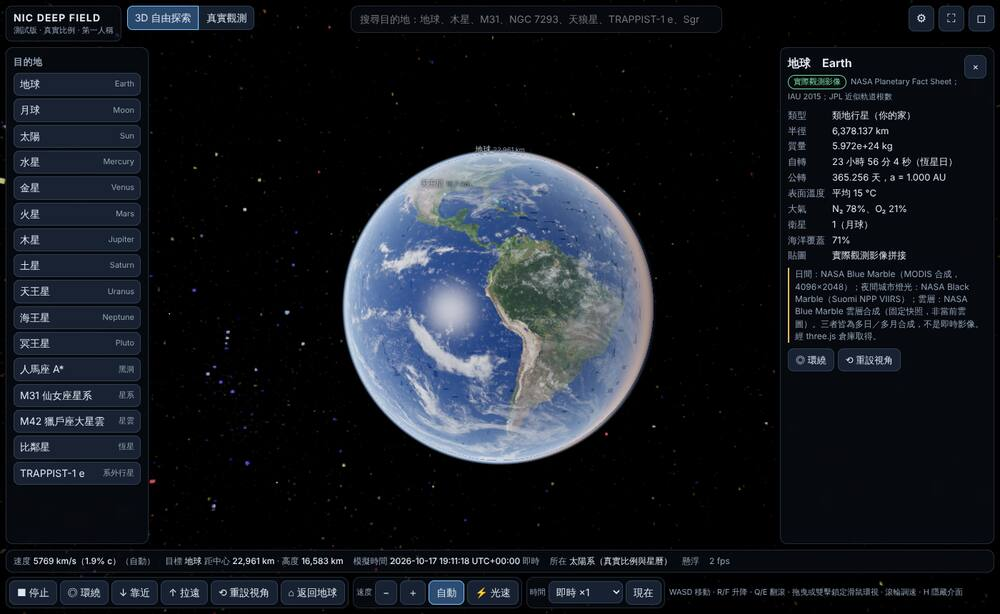
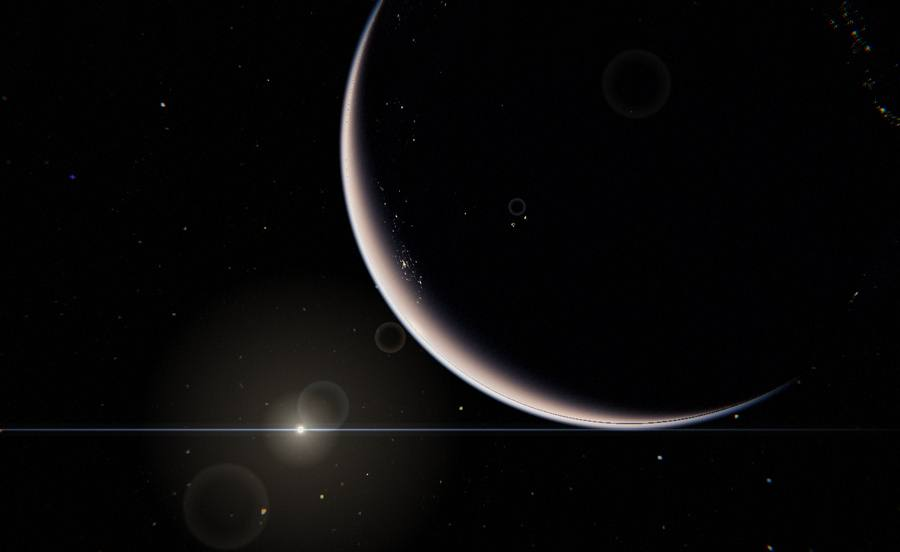
部署 ARC：同步程式碼（修正對數深度片段編譯錯誤、GPU 診斷模式；私有 main 7e3d682）

diff --git a/js/diag.js b/js/diag.js
@@ -1,0 +1,77 @@
+// GPU 診斷模式（網址加 ?diag=1 啟用）：顯示 GPU／WebGL 能力、即時效能、shader 錯誤，並提供逐項關閉視覺效果的開關，
+// 用來在真機（iPhone／Android）上隔離破圖成因。純工程工具，不改變任何天文資料或標示。
+// 其他網址參數：?quality=low|medium|high（覆蓋畫質）、?nolog=1（關閉對數深度緩衝，需重新載入）
+const $ = (id) => document.getElementById(id);
+
+export function initDiag(engine, controls, { quality } = {}) {
+  const gl = engine.renderer.getContext();
+  const dbg = gl.getExtension('WEBGL_debug_renderer_info');
+  const prec = (sh, t) => { const f = gl.getShaderPrecisionFormat(sh, t); return f ? `${f.precision}b [${f.rangeMin},${f.rangeMax}]` : '?'; };
+  const caps = {
+    renderer: dbg ? gl.getParameter(dbg.UNMASKED_RENDERER_WEBGL) : '（瀏覽器未揭露）', vendor: dbg ? gl.getParameter(dbg.UNMASKED_VENDOR_WEBGL) : '',
+    webgl: gl.getParameter(gl.VERSION), glsl: gl.getParameter(gl.SHADING_LANGUAGE_VERSION),
+    depthBits: gl.getParameter(gl.DEPTH_BITS), maxTex: gl.getParameter(gl.MAX_TEXTURE_SIZE), maxVarying: gl.getParameter(gl.MAX_VARYING_VECTORS), maxFragUniforms: gl.getParameter(gl.MAX_FRAGMENT_UNIFORM_VECTORS),
+    fragHighp: prec(gl.FRAGMENT_SHADER, gl.HIGH_FLOAT), fragMediump: prec(gl.FRAGMENT_SHADER, gl.MEDIUM_FLOAT), vertHighp: prec(gl.VERTEX_SHADER, gl.HIGH_FLOAT),
+    halfFloatRT: !!gl.getExtension('EXT_color_buffer_half_float') || !!gl.getExtension('EXT_color_buffer_float'), aniso: engine.maxAniso,
+    dpr: window.devicePixelRatio, pixelRatio: engine.renderer.getPixelRatio(), drawingBuffer: `${gl.drawingBufferWidth}×${gl.drawingBufferHeight}`,
+    quality, logDepth: engine.renderer.capabilities.logarithmicDepthBuffer, cores: navigator.hardwareConcurrency, deviceMemory: navigator.deviceMemory ?? '?', ua: navigator.userAgent,
+  };
+  const state = { lost: 0, errors: engine.shaderErrors || [], consoleErrors: [], fps: 0, fpsMin: 999, frame: 0, t0: performance.now(), samples: [] };
+  engine.canvas.addEventListener('webglcontextlost', () => { state.lost++; }, false);
+  const origErr = console.error.bind(console);
+  console.error = (...a) => { state.consoleErrors.push(a.map((x) => String(x?.message || x)).join(' ').slice(0, 400)); if (state.consoleErrors.length > 20) state.consoleErrors.shift(); origErr(...a); };
+
+  // ---- 覆蓋層
+  const box = document.createElement('div'); box.id = 'diag';
+  box.style.cssText = 'position:fixed;left:8px;top:calc(60px + env(safe-area-inset-top,0px));z-index:60;max-width:min(92vw,420px);max-height:70vh;overflow:auto;background:rgba(0,0,0,.86);color:#dfe7f2;font:11px/1.5 monospace;padding:8px 10px;border:1px solid rgba(255,255,255,.2);letter-spacing:0;pointer-events:auto';
+  document.body.appendChild(box);
+  const btn = (label, fn) => { const b = document.createElement('button'); b.textContent = label; b.style.cssText = 'font:11px monospace;margin:2px 4px 2px 0;padding:3px 6px;border:1px solid rgba(255,255,255,.3);color:#fff;background:rgba(255,255,255,.08)'; b.addEventListener('click', fn); return b; };
+  const live = document.createElement('pre'); live.style.cssText = 'margin:6px 0;white-space:pre-wrap;word-break:break-all';
+  const head = document.createElement('div'); head.innerHTML = `<b>ARC GPU 診斷</b> · ${escape(caps.renderer)}<br>WebGL ${escape(caps.webgl)} · 深度 ${caps.depthBits} bit · 貼圖上限 ${caps.maxTex} · frag highp ${caps.fragHighp} · mediump ${caps.fragMediump}<br>DPR ${caps.dpr} → 像素比 ${caps.pixelRatio} · 緩衝 ${caps.drawingBuffer} · 畫質 ${quality} · 對數深度 ${caps.logDepth} · 半浮點 RT ${caps.halfFloatRT}`;
+  box.appendChild(head); box.appendChild(live);
+
+  // ---- 逐項開關（即時生效；對數深度與畫質需重新載入）
+  const earth = engine.bodies.get('earth');
+  const toggles = document.createElement('div');
+  const flags = { cine: engine.cineOn !== false, bloom: !!engine.bloom && engine.bloom.enabled !== false, normal: true, atmo: true, breath: engine.breath, aniso: true, flare: true };
+  const refresh = () => { for (const [k, b] of Object.entries(tbtns)) b.style.background = flags[k] ? 'rgba(80,160,80,.4)' : 'rgba(160,60,60,.4)'; };
+  const tbtns = {
+    cine: btn('電影後製', () => { flags.cine = !flags.cine; engine.setCine(flags.cine); refresh(); }),
+    bloom: btn('Bloom', () => { flags.bloom = !flags.bloom; if (engine.bloom) engine.bloom.enabled = flags.bloom; refresh(); }),
+    normal: btn('地球法線貼圖', () => { flags.normal = !flags.normal; const u = earth?.mesh.material.uniforms; if (u?.uNormalStrength) { if (!flags.normal) { u._ns = u.uNormalStrength.value; u.uNormalStrength.value = 0; } else u.uNormalStrength.value = u._ns ?? 0.22; } refresh(); }),
+    atmo: btn('大氣殼', () => { flags.atmo = !flags.atmo; for (const e of engine.bodies.values()) if (e.atmo) e.atmo.visible = flags.atmo; refresh(); }),
+    breath: btn('鏡頭呼吸', () => { flags.breath = !flags.breath; engine.breath = flags.breath; refresh(); }),
+    aniso: btn('各向異性過濾', () => { flags.aniso = !flags.aniso; for (const t of Object.values(engine.textures || {})) { if (t) { t.anisotropy = flags.aniso ? engine.maxAniso : 1; t.needsUpdate = true; } } refresh(); }),
+    flare: btn('眩光', () => { flags.flare = !flags.flare; engine.flareDisabled = !flags.flare; refresh(); }),
+  };
+  for (const b of Object.values(tbtns)) toggles.appendChild(b);
+  toggles.appendChild(btn('像素比 1', () => { engine.renderer.setPixelRatio(1); engine.resize(); }));
+  toggles.appendChild(btn(caps.logDepth ? '關閉對數深度（重載）' : '開啟對數深度（重載）', () => { const u = new URL(location.href); if (caps.logDepth) u.searchParams.set('nolog', '1'); else u.searchParams.delete('nolog'); location.href = u.toString(); }));
+  for (const q of ['low', 'medium', 'high']) toggles.appendChild(btn(`畫質 ${q}（重載）`, () => { const u = new URL(location.href); u.searchParams.set('quality', q); location.href = u.toString(); }));
+  toggles.appendChild(btn('前往地球', () => { const e = window.__ndf?.catalog.entries.find((x) => x.kind === 'body' && x.id === 'earth'); if (e) window.__ndf.goTo(e, { instant: true }); }));
+  toggles.appendChild(btn('前往土星', () => { const e = window.__ndf?.catalog.entries.find((x) => x.kind === 'body' && x.id === 'saturn'); if (e) window.__ndf.goTo(e, { instant: true }); }));
+  box.appendChild(toggles); refresh();
+
+  // ---- 報告（複製到剪貼簿 ＋ 文字框）
+  const ta = document.createElement('textarea'); ta.style.cssText = 'width:100%;height:90px;font:10px monospace;background:#000;color:#9fd9b4;border:1px solid rgba(255,255,255,.2);margin-top:6px'; ta.readOnly = true;
+  const report = () => JSON.stringify({ time: new Date().toISOString(), caps, flags, fps: { avg: state.fps, min: state.fpsMin }, frame: engine.renderer.info.render, memory: engine.renderer.info.memory, programs: engine.renderer.info.programs?.length, jsHeapMB: performance.memory ? Math.round(performance.memory.usedJSHeapSize / 1048576) : null, contextLost: state.lost, shaderErrors: state.errors, consoleErrors: state.consoleErrors, frameType: engine.frame.type, camPos: engine.camPos.map((v) => Math.round(v)) }, null, 1);
+  box.appendChild(btn('產生／複製報告', async () => { const r = report(); ta.value = r; ta.style.display = ''; try { await navigator.clipboard.writeText(r); ta.value = '（已複製到剪貼簿）\n' + r; } catch (e) { /* iOS 可能拒絕，改由文字框手動複製 */ } }));
+  box.appendChild(btn('隱藏診斷', () => { box.style.display = 'none'; }));
+  ta.style.display = 'none'; box.appendChild(ta);
+
+  // ---- 即時數據
+  let last = performance.now(), acc = 0, n = 0;
+  const tick = (now) => {
+    const dt = now - last; last = now; acc += dt; n++;
+    if (acc >= 1000) { state.fps = Math.round(n * 1000 / acc); if (state.frame > 3) state.fpsMin = Math.min(state.fpsMin, state.fps); state.frame++; acc = 0; n = 0;
+      const r = engine.renderer.info.render, m = engine.renderer.info.memory;
+      live.textContent = `FPS ${state.fps}（最低 ${state.fpsMin === 999 ? '—' : state.fpsMin}） · 繪製 ${r.calls} 次 · 三角形 ${r.triangles.toLocaleString()} · 貼圖 ${m.textures} · 幾何 ${m.geometries} · 程式 ${engine.renderer.info.programs?.length ?? '?'}\nframe ${engine.frame.type} · 黑洞步數 ${engine.frame.type === 'bh' ? engine.bhMat.uniforms.uSteps.value : '—'} · context lost ${state.lost}\nshader 錯誤 ${state.errors.length}${state.errors.length ? '\n' + state.errors.map((e) => '  ' + e.slice(0, 220)).join('\n') : ''}${state.consoleErrors.length ? '\nconsole 錯誤 ' + state.consoleErrors.length + '：' + state.consoleErrors[state.consoleErrors.length - 1].slice(0, 160) : ''}`;
+    }
+    requestAnimationFrame(tick);
+  };
+  requestAnimationFrame(tick);
+  window.__ndfDiag = { caps, flags, state, report };
+  return window.__ndfDiag;
+}
+
+function escape(s) { return String(s).replace(/[&<>]/g, (c) => ({ '&': '&amp;', '<': '&lt;', '>': '&gt;' }[c])); }

diff --git a/js/observe.js b/js/observe.js
@@ -23,7 +23,7 @@ const pad = (n) => String(n).padStart(2, '0');
 // ---- 來源定義 ----------------------------------------------------------------
 export const SOURCES = [
   {
-    id: 'sdo171', group: 'sun', title: 'SDO AIA 171 Å（日冕，約 100 萬 K）', kind: 'nrt', provider: 'NASA Solar Dynamics Observatory（GSFC）',
+    id: 'sdo171', home: 'https://sdo.gsfc.nasa.gov/data/', group: 'sun', title: 'SDO AIA 171 Å（日冕，約 100 萬 K）', kind: 'nrt', provider: 'NASA Solar Dynamics Observatory（GSFC）',
     cadence: '約每 15 分鐘更新一張「最新」影像', timeSource: 'Helioviewer API（getClosestImage，sourceId 10）',
     async run() {
       const img = `https://sdo.gsfc.nasa.gov/assets/img/latest/latest_1024_0171.jpg?x=${Date.now()}`;
@@ -32,7 +32,7 @@ export const SOURCES = [
     },
   },
   {
-    id: 'sdo304', group: 'sun', title: 'SDO AIA 304 Å（色球／過渡區）', kind: 'nrt', provider: 'NASA SDO（GSFC）', cadence: '約每 15 分鐘', timeSource: 'Helioviewer API（sourceId 13）',
+    id: 'sdo304', home: 'https://sdo.gsfc.nasa.gov/data/', group: 'sun', title: 'SDO AIA 304 Å（色球／過渡區）', kind: 'nrt', provider: 'NASA SDO（GSFC）', cadence: '約每 15 分鐘', timeSource: 'Helioviewer API（sourceId 13）',
     async run() {
       const img = `https://sdo.gsfc.nasa.gov/assets/img/latest/latest_1024_0304.jpg?x=${Date.now()}`;
       const meta = await safe(() => fetchJson(`https://api.helioviewer.org/v2/getClosestImage/?date=${new Date().toISOString()}&sourceId=13`));
@@ -40,7 +40,7 @@ export const SOURCES = [
     },
   },
   {
-    id: 'hmi', group: 'sun', title: 'SDO HMI 連續譜（可見光光球，黑子）', kind: 'nrt', provider: 'NASA SDO（GSFC）', cadence: '約每 15 分鐘', timeSource: 'Helioviewer API（sourceId 18）',
+    id: 'hmi', home: 'https://sdo.gsfc.nasa.gov/data/', group: 'sun', title: 'SDO HMI 連續譜（可見光光球，黑子）', kind: 'nrt', provider: 'NASA SDO（GSFC）', cadence: '約每 15 分鐘', timeSource: 'Helioviewer API（sourceId 18）',
     async run() {
       const img = `https://sdo.gsfc.nasa.gov/assets/img/latest/latest_1024_HMIIC.jpg?x=${Date.now()}`;
       const meta = await safe(() => fetchJson(`https://api.helioviewer.org/v2/getClosestImage/?date=${new Date().toISOString()}&sourceId=18`));
@@ -48,19 +48,19 @@ export const SOURCES = [
     },
   },
   {
-    id: 'lascoc2', group: 'sun', title: 'SOHO LASCO C2 日冕儀（日冕物質拋射）', kind: 'nrt', provider: 'ESA/NASA SOHO', cadence: '約每 12 分鐘拍攝，網站約每小時更新', timeSource: '影像右下角內嵌的 UTC 時間戳（本站無法機器讀取）',
+    id: 'lascoc2', home: 'https://soho.nascom.nasa.gov/data/realtime-images.html', group: 'sun', title: 'SOHO LASCO C2 日冕儀（日冕物質拋射）', kind: 'nrt', provider: 'ESA/NASA SOHO', cadence: '約每 12 分鐘拍攝，網站約每小時更新', timeSource: '影像右下角內嵌的 UTC 時間戳（本站無法機器讀取）',
     async run() {
       return { imageUrl: `https://soho.nascom.nasa.gov/data/realtime/c2/512/latest.jpg?x=${Date.now()}`, captured: null, timeNote: '拍攝時間請看影像內嵌時間戳（UTC）；本站無法取得機器可讀時間', credit: 'ESA/NASA SOHO/LASCO' };
     },
   },
   {
-    id: 'goes', group: 'earth', title: 'GOES-East 全盤 GeoColor（西半球）', kind: 'nrt', provider: 'NOAA NESDIS STAR', cadence: '每 10 分鐘', timeSource: '影像底部內嵌 UTC 時間戳',
+    id: 'goes', home: 'https://www.star.nesdis.noaa.gov/GOES/fulldisk.php?sat=G19', group: 'earth', title: 'GOES-East 全盤 GeoColor（西半球）', kind: 'nrt', provider: 'NOAA NESDIS STAR', cadence: '每 10 分鐘', timeSource: '影像底部內嵌 UTC 時間戳',
     async run() {
       return { imageUrl: `https://cdn.star.nesdis.noaa.gov/GOES19/ABI/FD/GEOCOLOR/1808x1808.jpg?x=${Date.now()}`, captured: null, timeNote: '拍攝時間請看影像底部黑條（UTC）；GeoColor 夜側為 NOAA 以紅外線＋靜態城市燈光合成，非真實夜間可見光', credit: 'NOAA/NESDIS/STAR' };
     },
   },
   {
-    id: 'himawari', group: 'earth', title: 'Himawari-9 全盤真彩（東亞／台灣上空）', kind: 'nrt', provider: 'JMA 氣象衛星，影像由日本 NICT 提供', cadence: '每 10 分鐘', timeSource: 'NICT latest.json 的拍攝時間',
+    id: 'himawari', home: 'https://himawari8.nict.go.jp/', group: 'earth', title: 'Himawari-9 全盤真彩（東亞／台灣上空）', kind: 'nrt', provider: 'JMA 氣象衛星，影像由日本 NICT 提供', cadence: '每 10 分鐘', timeSource: 'NICT latest.json 的拍攝時間',
     async run() {
       const meta = await fetchJson(`https://himawari8.nict.go.jp/img/D531106/latest.json?x=${Date.now()}`);
       // date 格式 "YYYY-MM-DD HH:MM:SS"（UTC）
@@ -70,7 +70,7 @@ export const SOURCES = [
     },
   },
   {
-    id: 'epic', group: 'earth', title: 'DSCOVR EPIC 全日照地球（距地 150 萬 km）', kind: 'archive', provider: 'NASA EPIC（GSFC）', cadence: '每日數張，通常延遲 1–3 天發布', timeSource: 'EPIC API 的影像時間',
+    id: 'epic', home: 'https://epic.gsfc.nasa.gov/', group: 'earth', title: 'DSCOVR EPIC 全日照地球（距地 150 萬 km）', kind: 'archive', provider: 'NASA EPIC（GSFC）', cadence: '每日數張，通常延遲 1–3 天發布', timeSource: 'EPIC API 的影像時間',
     async run() {
       const list = await fetchJson(`https://epic.gsfc.nasa.gov/api/natural?x=${Date.now()}`);
       if (!Array.isArray(list) || !list.length) throw new Error('EPIC API 無資料');
@@ -138,7 +138,7 @@ export class ObservePanel {
         <dt>本機最後成功載入</dt><dd class="loaded">—（這不是拍攝時間）</dd>
         <dt>狀態</dt><dd class="st">載入中</dd>
       </dl>
-      <div class="obs-actions"><button class="refresh">重新讀取</button><a class="open" target="_blank" rel="noopener">在新分頁開啟原始影像</a></div>`;
+      <div class="obs-actions"><button class="refresh">重新讀取</button><a class="open" target="_blank" rel="noopener" href="${src.home}">在新分頁開啟原始影像</a><a target="_blank" rel="noopener" href="${src.home}">官方來源頁</a></div>`;
     const run = async () => {
       const imgBox = el.querySelector('.obs-img'); const st = el.querySelector('.st'); const cap = el.querySelector('.cap'); const lag = el.querySelector('.lag'); const loaded = el.querySelector('.loaded');
       imgBox.innerHTML = '<div class="obs-status">載入中…</div>'; st.textContent = '載入中'; st.className = 'st';
@@ -175,7 +175,7 @@ export class ObservePanel {
         <dt>速度</dt><dd class="vel">—</dd>
         <dt>狀態</dt><dd class="st">載入中</dd>
       </dl>
-      <div class="obs-actions"><button class="refresh">重新讀取</button><button class="mark">在 3D 地球上標示並前往</button></div>
+      <div class="obs-actions"><button class="refresh">重新讀取</button><button class="mark">在 3D 地球上標示並前往</button><a target="_blank" rel="noopener" href="https://wheretheiss.at/">官方來源頁</a></div>
       <div class="obs-tile-head" style="margin-top:14px"><span class="badge badge-live">直播（外部連結）</span><b>NASA 官方直播</b></div>
       <div class="obs-note">太空站的即時影像由 NASA 透過 YouTube／NASA+ 直播，本站不嵌入、不轉播，以免把舊錄影誤當直播。是否正在播出、播的是不是太空站鏡頭、延遲多少，皆由 NASA 決定，本站無法判定。</div>
       <div class="obs-actions">

diff --git a/js/shaders.js b/js/shaders.js
@@ -12,6 +12,7 @@ export const PLANET_VERT = /* glsl */`
   varying vec3 vObjPos;
   varying vec3 vTangent; varying vec3 vBitangent;
   uniform float uUOffset;
+  #include <common>
   #include <logdepthbuf_pars_vertex>
   void main() {
     vUv = vec2(uv.x + uUOffset, uv.y); // 不用 fract，交給 RepeatWrapping，避免接縫線
@@ -167,6 +168,7 @@ export const EARTH_FRAG = /* glsl */`
 // 大氣殼：以弦長近似的單次散射（FrontSide、加法混合）
 export const ATMO_VERT = /* glsl */`
   varying vec3 vWorldPos;
+  #include <common>
   #include <logdepthbuf_pars_vertex>
   void main() {
     vec4 wp = modelMatrix * vec4(position, 1.0);
@@ -220,14 +222,21 @@ export const ATMO_FRAG = /* glsl */`
 
 export const RING_VERT = /* glsl */`
   varying vec3 vWorldPos; varying vec3 vLocal;
-  void main() { vLocal = position; vec4 wp = modelMatrix * vec4(position, 1.0); vWorldPos = wp.xyz; gl_Position = projectionMatrix * viewMatrix * wp; }
+  #include <common>
+  #include <logdepthbuf_pars_vertex>
+  void main() {
+    vLocal = position; vec4 wp = modelMatrix * vec4(position, 1.0); vWorldPos = wp.xyz; gl_Position = projectionMatrix * viewMatrix * wp;
+    #include <logdepthbuf_vertex>
+  }
 `;
 export const RING_FRAG = /* glsl */`
   precision highp float;
+  #include <logdepthbuf_pars_fragment>
   varying vec3 vWorldPos; varying vec3 vLocal;
   uniform sampler2D uRingMap; uniform float uInner, uOuter, uRp;
   uniform vec3 uSunDir; uniform vec3 uCenter; uniform vec3 uNormal; uniform float uSunIntensity; uniform float uFaint;
   void main() {
+    #include <logdepthbuf_fragment>
     float r = length(vLocal.xy);
     float t = (r - uInner) / (uOuter - uInner);
     if (t < 0.0 || t > 1.0) discard;
@@ -255,10 +264,16 @@ export const RING_FRAG = /* glsl */`
 
 export const SUN_VERT = /* glsl */`
   varying vec3 vObj; varying vec3 vNormal; varying vec3 vWorldPos;
-  void main() { vObj = position; vec4 wp = modelMatrix * vec4(position, 1.0); vWorldPos = wp.xyz; vNormal = normalize(mat3(modelMatrix) * normal); gl_Position = projectionMatrix * viewMatrix * wp; }
+  #include <common>
+  #include <logdepthbuf_pars_vertex>
+  void main() {
+    vObj = position; vec4 wp = modelMatrix * vec4(position, 1.0); vWorldPos = wp.xyz; vNormal = normalize(mat3(modelMatrix) * normal); gl_Position = projectionMatrix * viewMatrix * wp;
+    #include <logdepthbuf_vertex>
+  }
 `;
 export const SUN_FRAG = /* glsl */`
   precision highp float;
+  #include <logdepthbuf_pars_fragment>
   varying vec3 vObj; varying vec3 vNormal; varying vec3 vWorldPos;
   uniform float uTime; uniform float uIntensity;
   float hash(vec3 p) { p = fract(p * 0.3183099 + 0.1); p *= 17.0; return fract(p.x * p.y * p.z * (p.x + p.y + p.z)); }
@@ -267,6 +282,7 @@ export const SUN_FRAG = /* glsl */`
                mix(mix(hash(i + vec3(0,0,1)), hash(i + vec3(1,0,1)), f.x), mix(hash(i + vec3(0,1,1)), hash(i + vec3(1,1,1)), f.x), f.y), f.z); }
   float fbm(vec3 p) { float s = 0.0, a = 0.5; for (int i = 0; i < 5; i++) { s += a * noise3(p); p = p * 2.03 + 11.0; a *= 0.5; } return s; }
   void main() {
+    #include <logdepthbuf_fragment>
     vec3 p = normalize(vObj);
     float g = fbm(p * 60.0 + uTime * 0.02) * 0.6 + fbm(p * 220.0 - uTime * 0.05) * 0.4;   // 米粒組織
     float spots = smoothstep(0.62, 0.72, fbm(p * 6.0 + 3.0)) * smoothstep(0.3, 0.9, fbm(p * 25.0 + 7.0)); // 偶發黑子（示意）

diff --git a/js/main.js b/js/main.js
@@ -27,9 +27,11 @@ async function boot() {
   window.addEventListener('error', (e) => { if (errors.length < 8) report(`錯誤：${e.message}`); });
   window.addEventListener('unhandledrejection', (e) => { if (errors.length < 8) report(`錯誤：${e.reason?.message || e.reason}`); });
 
-  const quality = detectQuality();
+  // 網址參數（診斷用）：?quality=low|medium|high 覆蓋畫質、?nolog=1 關閉對數深度緩衝、?diag=1 顯示 GPU 診斷
+  const params = new URLSearchParams(location.search);
+  const quality = ['low', 'medium', 'high'].includes(params.get('quality')) ? params.get('quality') : detectQuality();
   let engine;
-  try { engine = new Engine(canvas, { quality }); }
+  try { engine = new Engine(canvas, { quality, logDepth: !params.has('nolog') }); }
   catch (e) { lmsg.textContent = '無法建立 WebGL 環境。請改用支援 WebGL2 的瀏覽器（Chrome / Edge / Firefox / Safari 16+）。'; report(String(e.message || e)); return; }
 
   const catalog = new Catalog();
@@ -185,7 +187,7 @@ async function boot() {
   const streaks = Array.from({ length: 220 }, () => ({ a: Math.random() * Math.PI * 2, r: Math.random(), l: 0.2 + Math.random() * 0.8 }));
   function drawFx(level, fade) {
     fctx.clearRect(0, 0, fx.width, fx.height);
-    if (engine.flare && prefs.cine) drawFlare(engine.flare);
+    if (engine.flare && prefs.cine && !engine.flareDisabled) drawFlare(engine.flare);
     if (level > 0.01) {
       const cx = fx.width / 2, cy = fx.height / 2, R = Math.hypot(cx, cy);
       fctx.fillStyle = `rgba(0,0,0,${0.3 * level})`; fctx.fillRect(0, 0, fx.width, fx.height);
@@ -299,6 +301,7 @@ async function boot() {
 
 
   // 測試鉤子（瀏覽器自動化用）
+  if (params.has('diag')) import('./diag.js').then((m) => m.initDiag(engine, controls, { quality })).catch((e) => console.error('診斷模式載入失敗', e));
   window.__ndf = {
     engine, controls, catalog, goTo,
     testPlaceOver(lat, lon, altKm) {

diff --git a/js/engine.js b/js/engine.js
@@ -26,10 +26,17 @@ function bbColor(T) { // 黑體近似色（線性空間近似）
 export function bvToTemp(bv) { return 4600 * (1 / (0.92 * bv + 1.7) + 1 / (0.92 * bv + 0.62)); }
 
 export class Engine {
-  constructor(canvas, { quality = 'high' } = {}) {
+  constructor(canvas, { quality = 'high', logDepth = true } = {}) {
     this.canvas = canvas;
     this.quality = quality;
-    this.renderer = new THREE.WebGLRenderer({ canvas, antialias: quality !== 'low', logarithmicDepthBuffer: true, powerPreference: 'high-performance' });
+    this.renderer = new THREE.WebGLRenderer({ canvas, antialias: quality !== 'low', logarithmicDepthBuffer: logDepth, powerPreference: 'high-performance' });
+    // shader 編譯／連結錯誤：保留摘要供診斷模式顯示（仍照常輸出到 console）
+    this.shaderErrors = [];
+    this.renderer.debug.onShaderError = (gl, program, vs, fs) => {
+      const msg = `${gl.getProgramInfoLog(program) || ''} | VS: ${(gl.getShaderInfoLog(vs) || '').trim()} | FS: ${(gl.getShaderInfoLog(fs) || '').trim()}`.replace(/\s+/g, ' ');
+      this.shaderErrors.push(msg.slice(0, 600));
+      console.error('THREE.WebGLProgram: Shader Error', msg);
+    };
     this.renderer.setPixelRatio(Math.min(window.devicePixelRatio || 1, quality === 'high' ? 2 : 1.25));
     this.renderer.toneMapping = THREE.ACESFilmicToneMapping;
     this.renderer.toneMappingExposure = 1.0;
@@ -667,6 +674,7 @@ export class Engine {
 
   render() {
     this.cine.material.uniforms.uTime.value = this.elapsed;
+    this.renderer.info.autoReset = false; this.renderer.info.reset(); // 讓 info 統計整個 composer 幀（多個 pass），供診斷模式讀取
     this.composer.render();
   }
 
